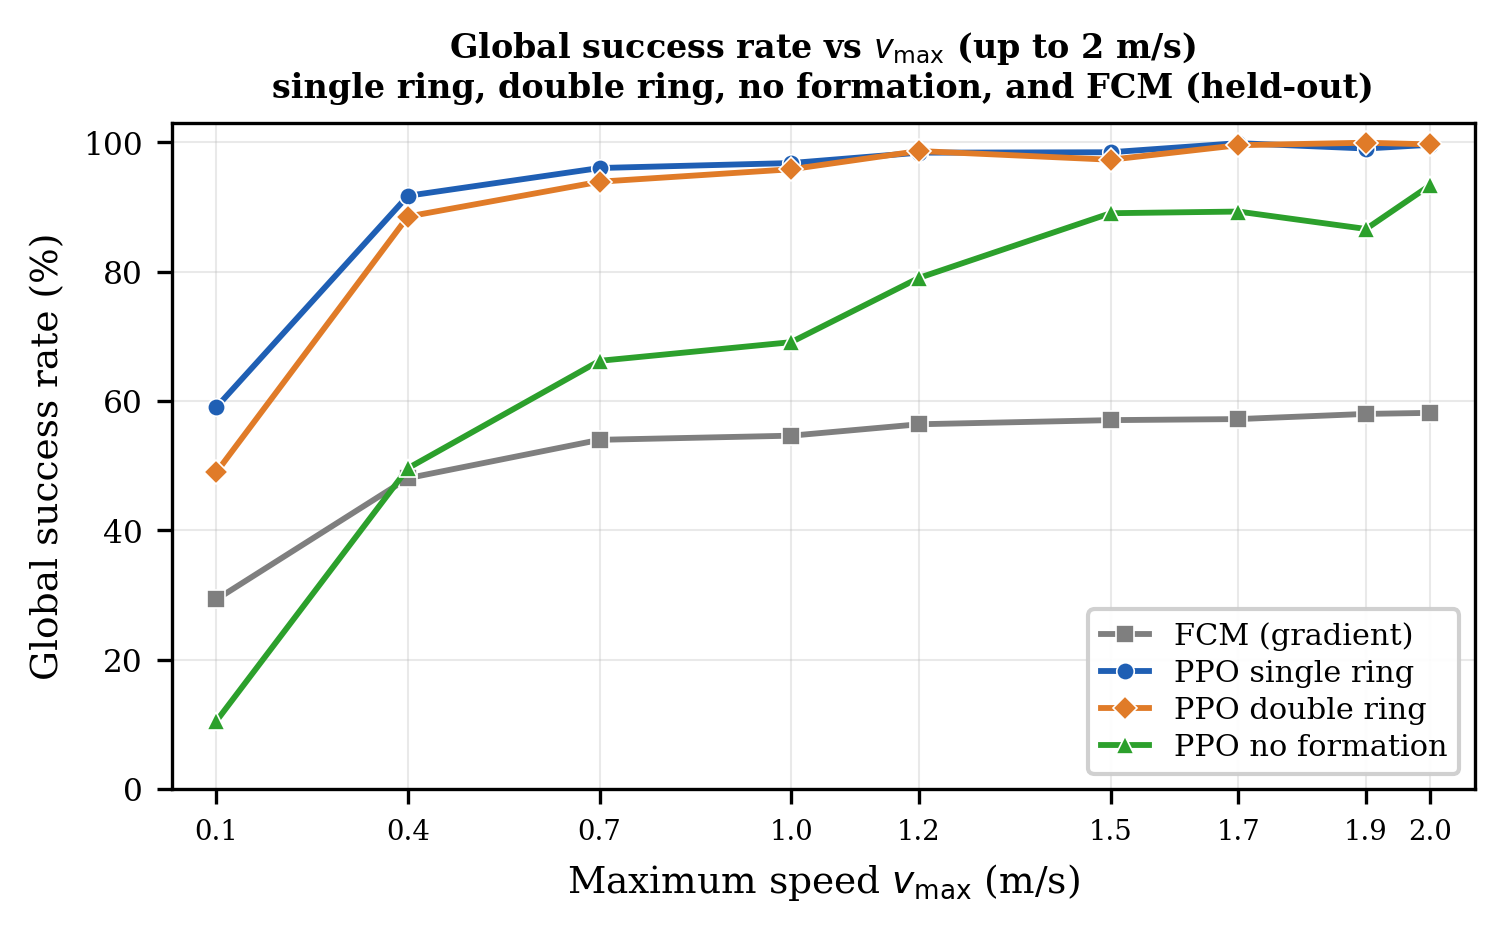
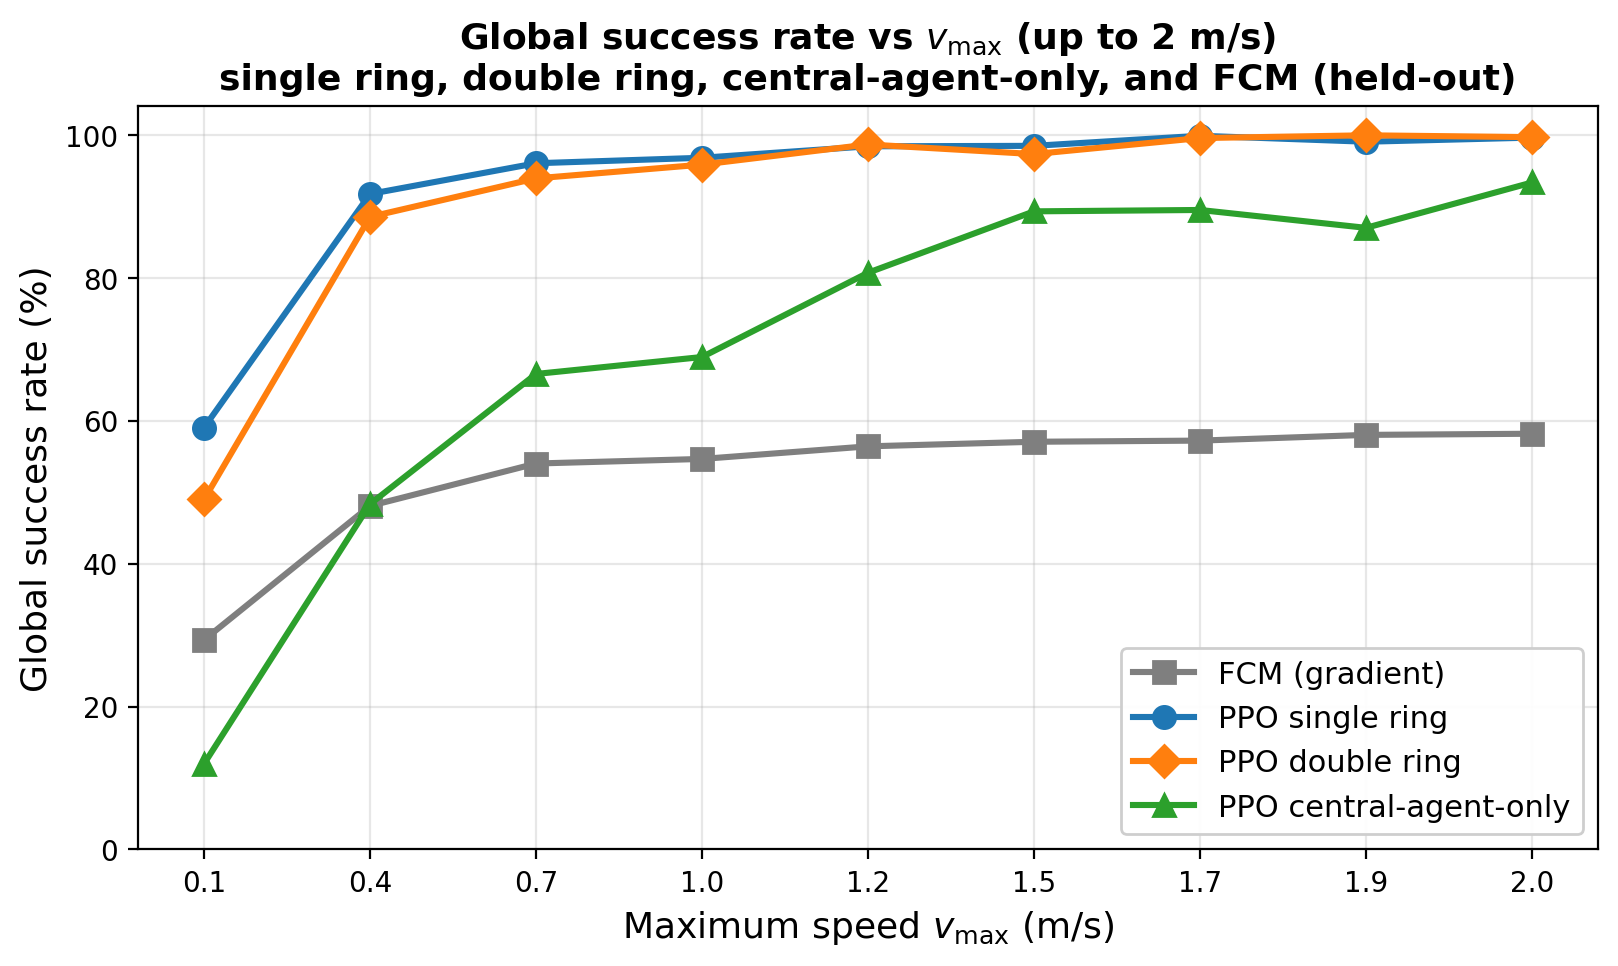
New deliverables

diff --git a/deliverables/tables/table_v1.2_en.tex b/deliverables/tables/table_v1.2_en.tex
@@ -26,7 +26,7 @@
 \midrule
 FCM Adam ($lr{=}12$)   & 56.4 & 76.3 & 29.5 & 37.2 & 82.7 & 79.8 & 34.6 & 54.8 \\
 \rowcolor{rowalt}
-PPO no formation       & 79.0 & 86.9 & 86.7 & 64.9 & 77.7 & 91.0 & 68.5 & 77.7 \\
+PPO, central-agent-only & 79.0 & 86.9 & 86.7 & 64.9 & 77.7 & 91.0 & 68.5 & 77.7 \\
 PPO single ring        & 98.4 & 99.7 & 100.0 & 95.6 & 98.2 & 100.0 & 95.8 & 99.4 \\
 \rowcolor{rowalt}
 PPO double ring        & 98.7 & 99.2 & 100.0 & 95.4 & 100.0 & 100.0 & 99.6 & 96.3 \\
